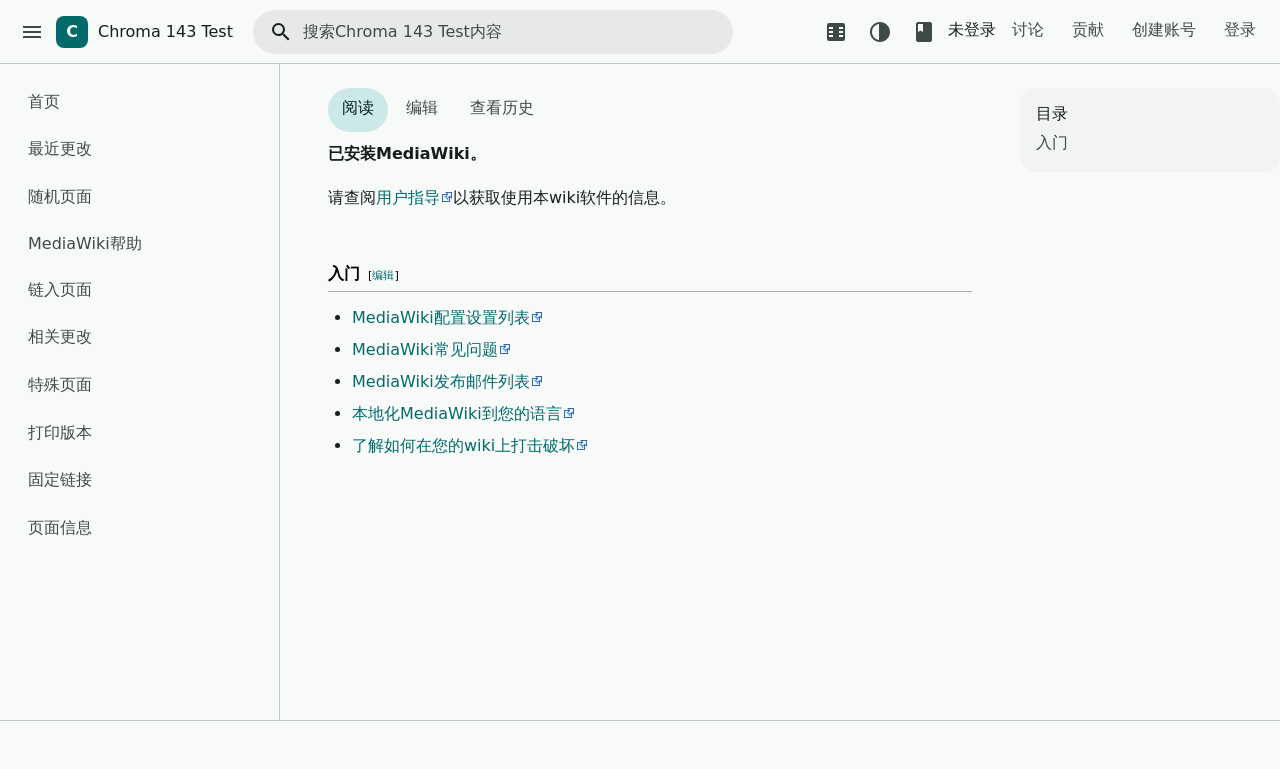
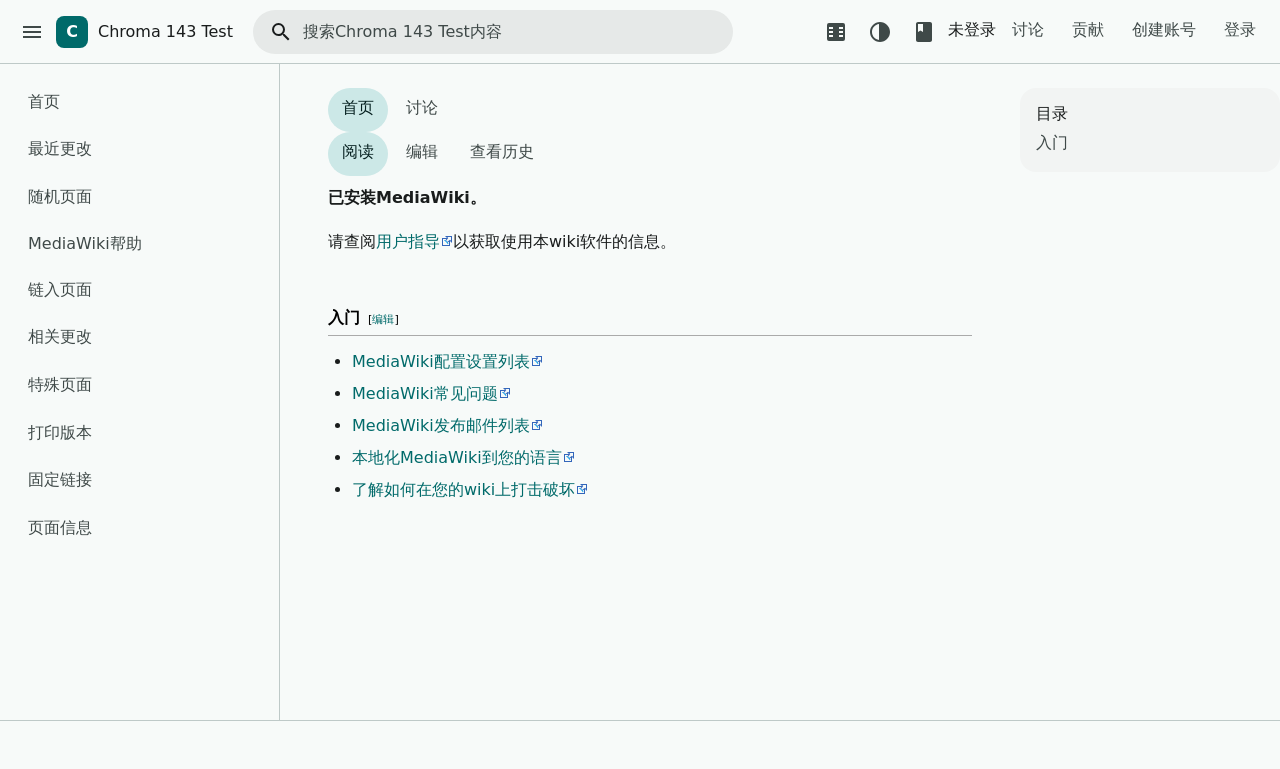
docs: link 1.43 to v0.1.2 and refresh screenshot

Changed region(s): [[0.25, 0.4057, 0.4688, 0.6554], [0.25, 0.1248, 0.5312, 0.3745]]

diff --git a/docs/COMPAT-MATRIX.md b/docs/COMPAT-MATRIX.md
@@ -36,9 +36,8 @@ version-specific workarounds into a single branch.
 - Runtime smoke tests completed on MediaWiki **1.43.0**, **1.45.0** and
   **1.46.0**: skin registers/renders, `data-chroma-*` body attributes and
   `chroma-seed-*` class are applied, preferences work, no PHP errors.
-- Known 1.43 gap: the associated-pages (namespace) tab row is not rendered by
-  the legacy menu template yet; views/actions render normally. Tracked for the
-  next patch.
+- 1.43 namespace/associated-pages tabs are rendered after the v0.1.2 patch
+  (`data-namespaces` legacy menu).
 
 ## Local smoke test (2026-10-31)
 

diff --git a/README.md b/README.md
@@ -53,7 +53,7 @@
 
 | MediaWiki | 分支 | 发布 |
 |---|---|---|
-| 1.43 LTS | `REL1_43` | [v0.1.0-REL1_43](https://github.com/chroma-mediawiki/mediawiki-skins-Chroma/releases/tag/v0.1.1-REL1_43) |
+| 1.43 LTS | `REL1_43` | [v0.1.0-REL1_43](https://github.com/chroma-mediawiki/mediawiki-skins-Chroma/releases/tag/v0.1.2-REL1_43) |
 | 1.45 | `REL1_45` | [v0.1.0-REL1_45](https://github.com/chroma-mediawiki/mediawiki-skins-Chroma/releases/tag/v0.1.1-REL1_45) |
 | 1.46 | `REL1_46` | [v0.1.0-REL1_46](https://github.com/chroma-mediawiki/mediawiki-skins-Chroma/releases/tag/v0.1.1-REL1_46) |
 
